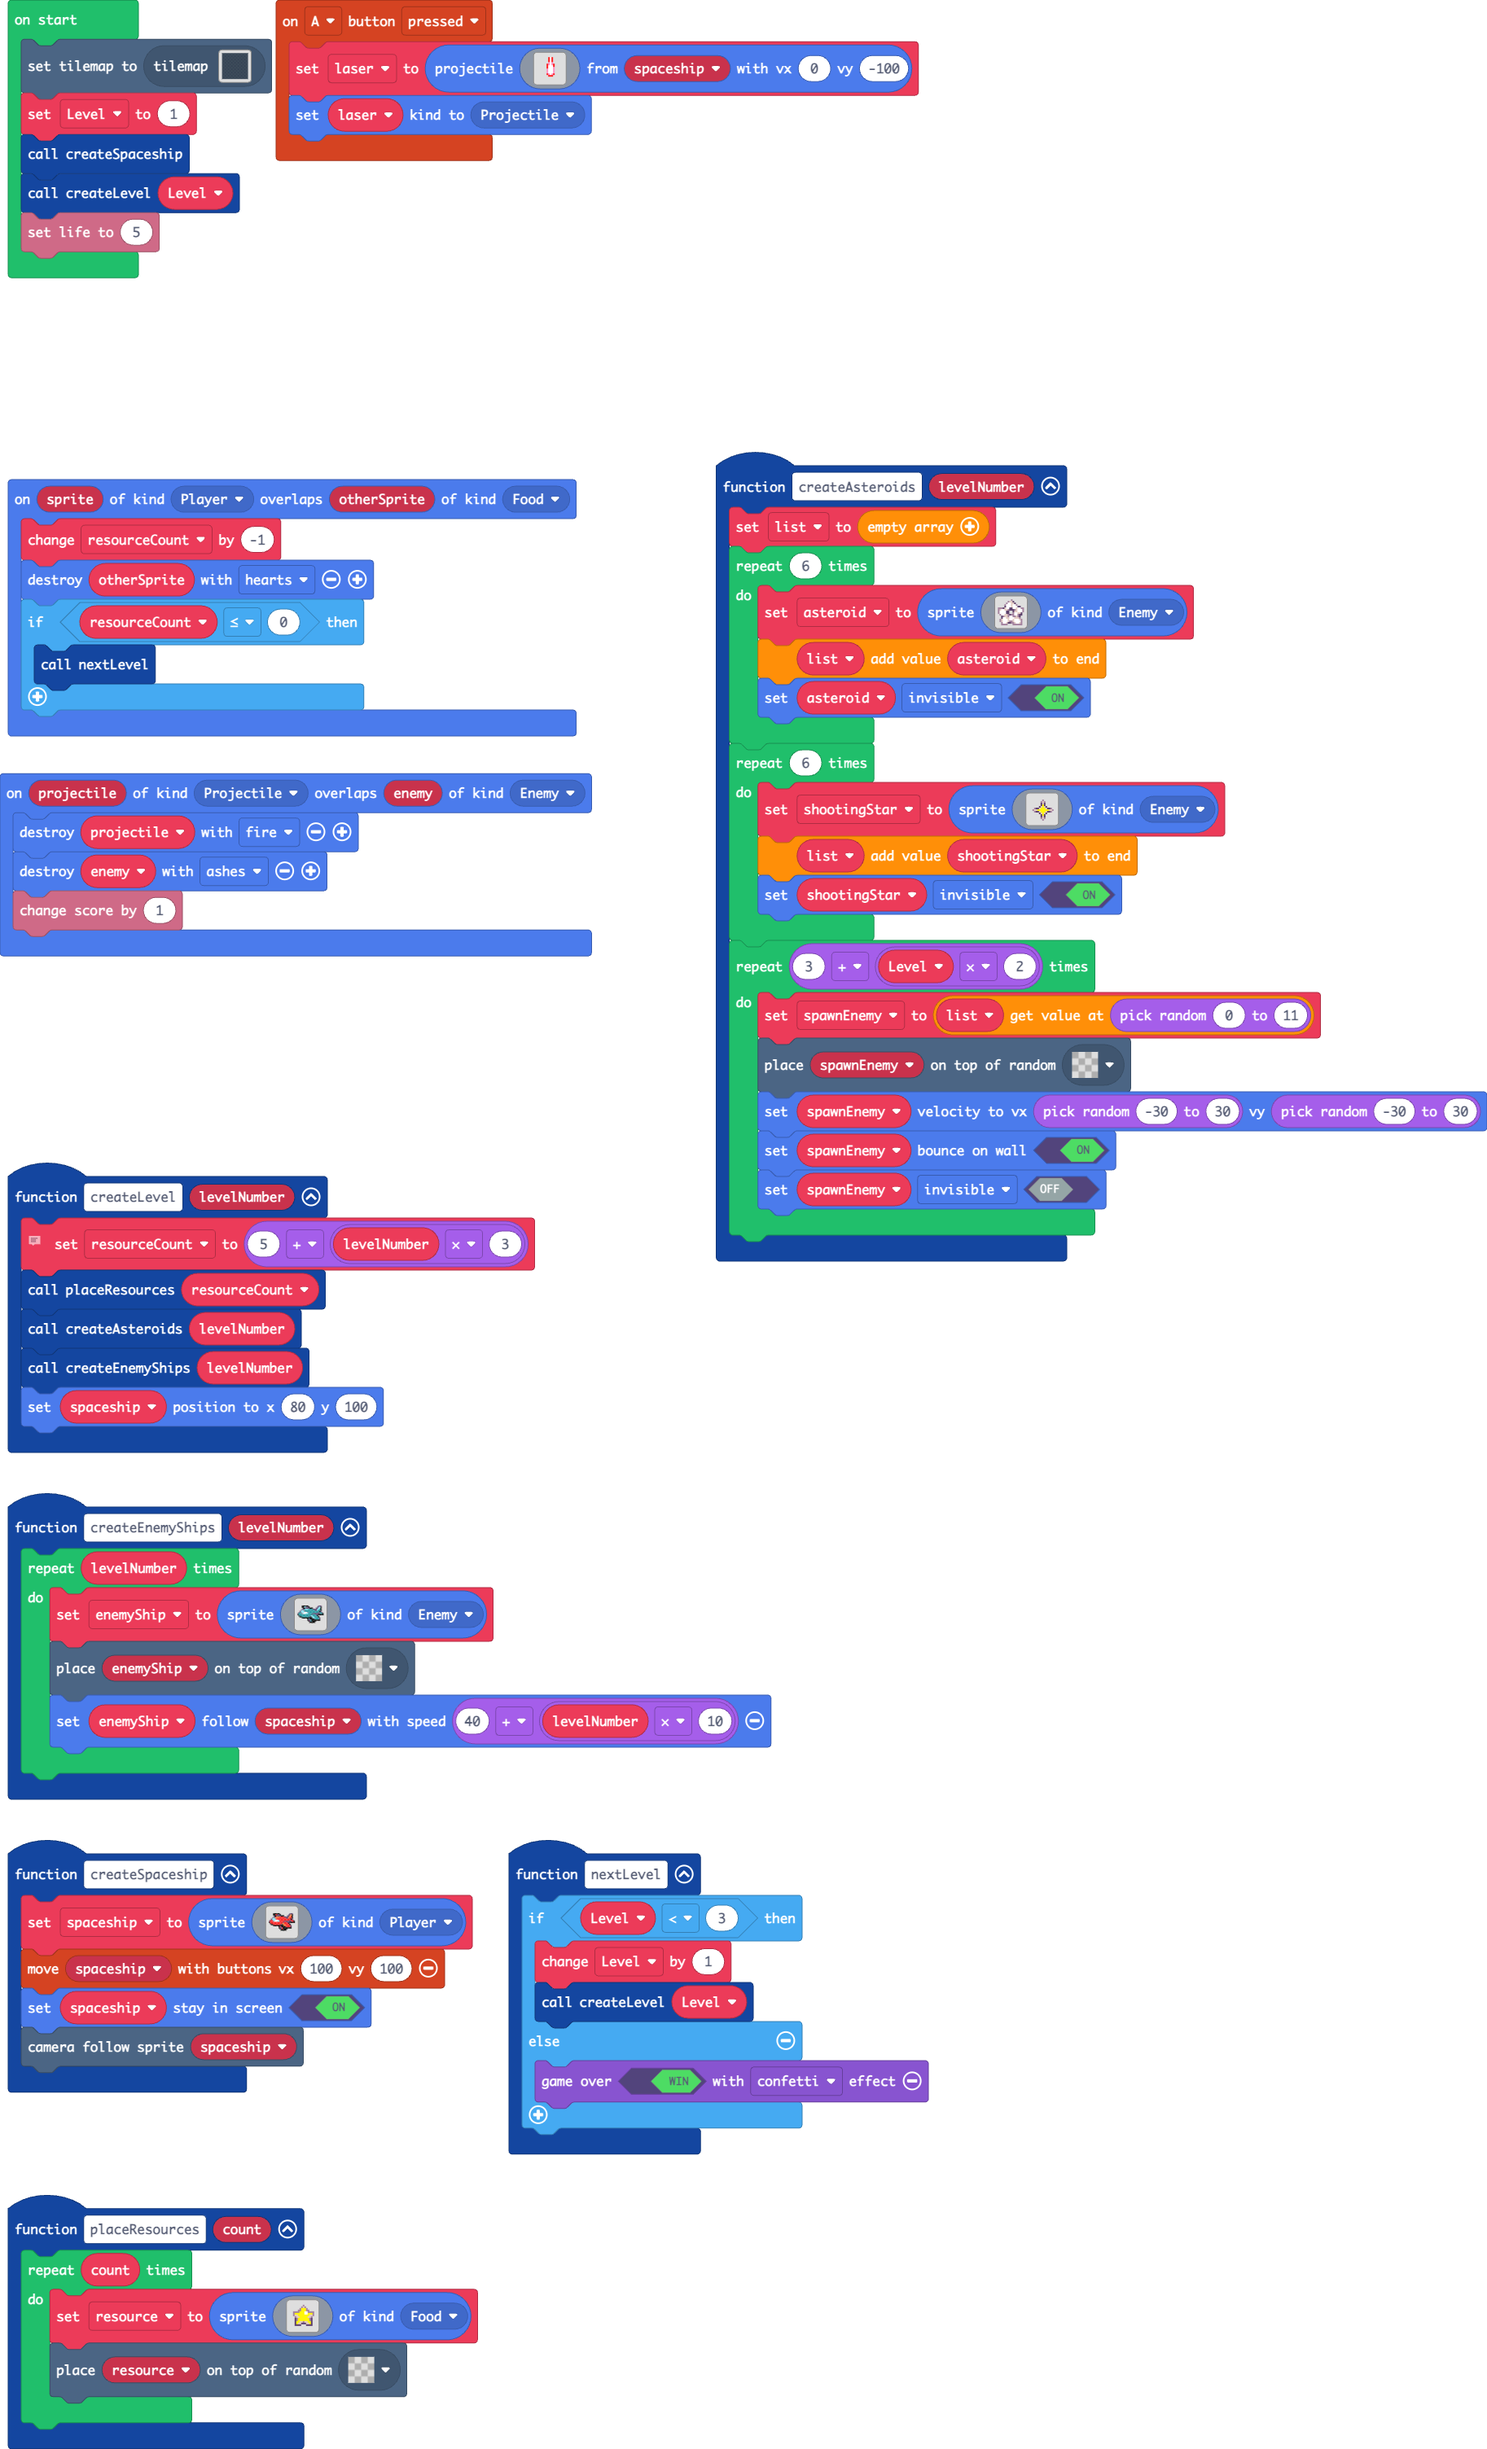
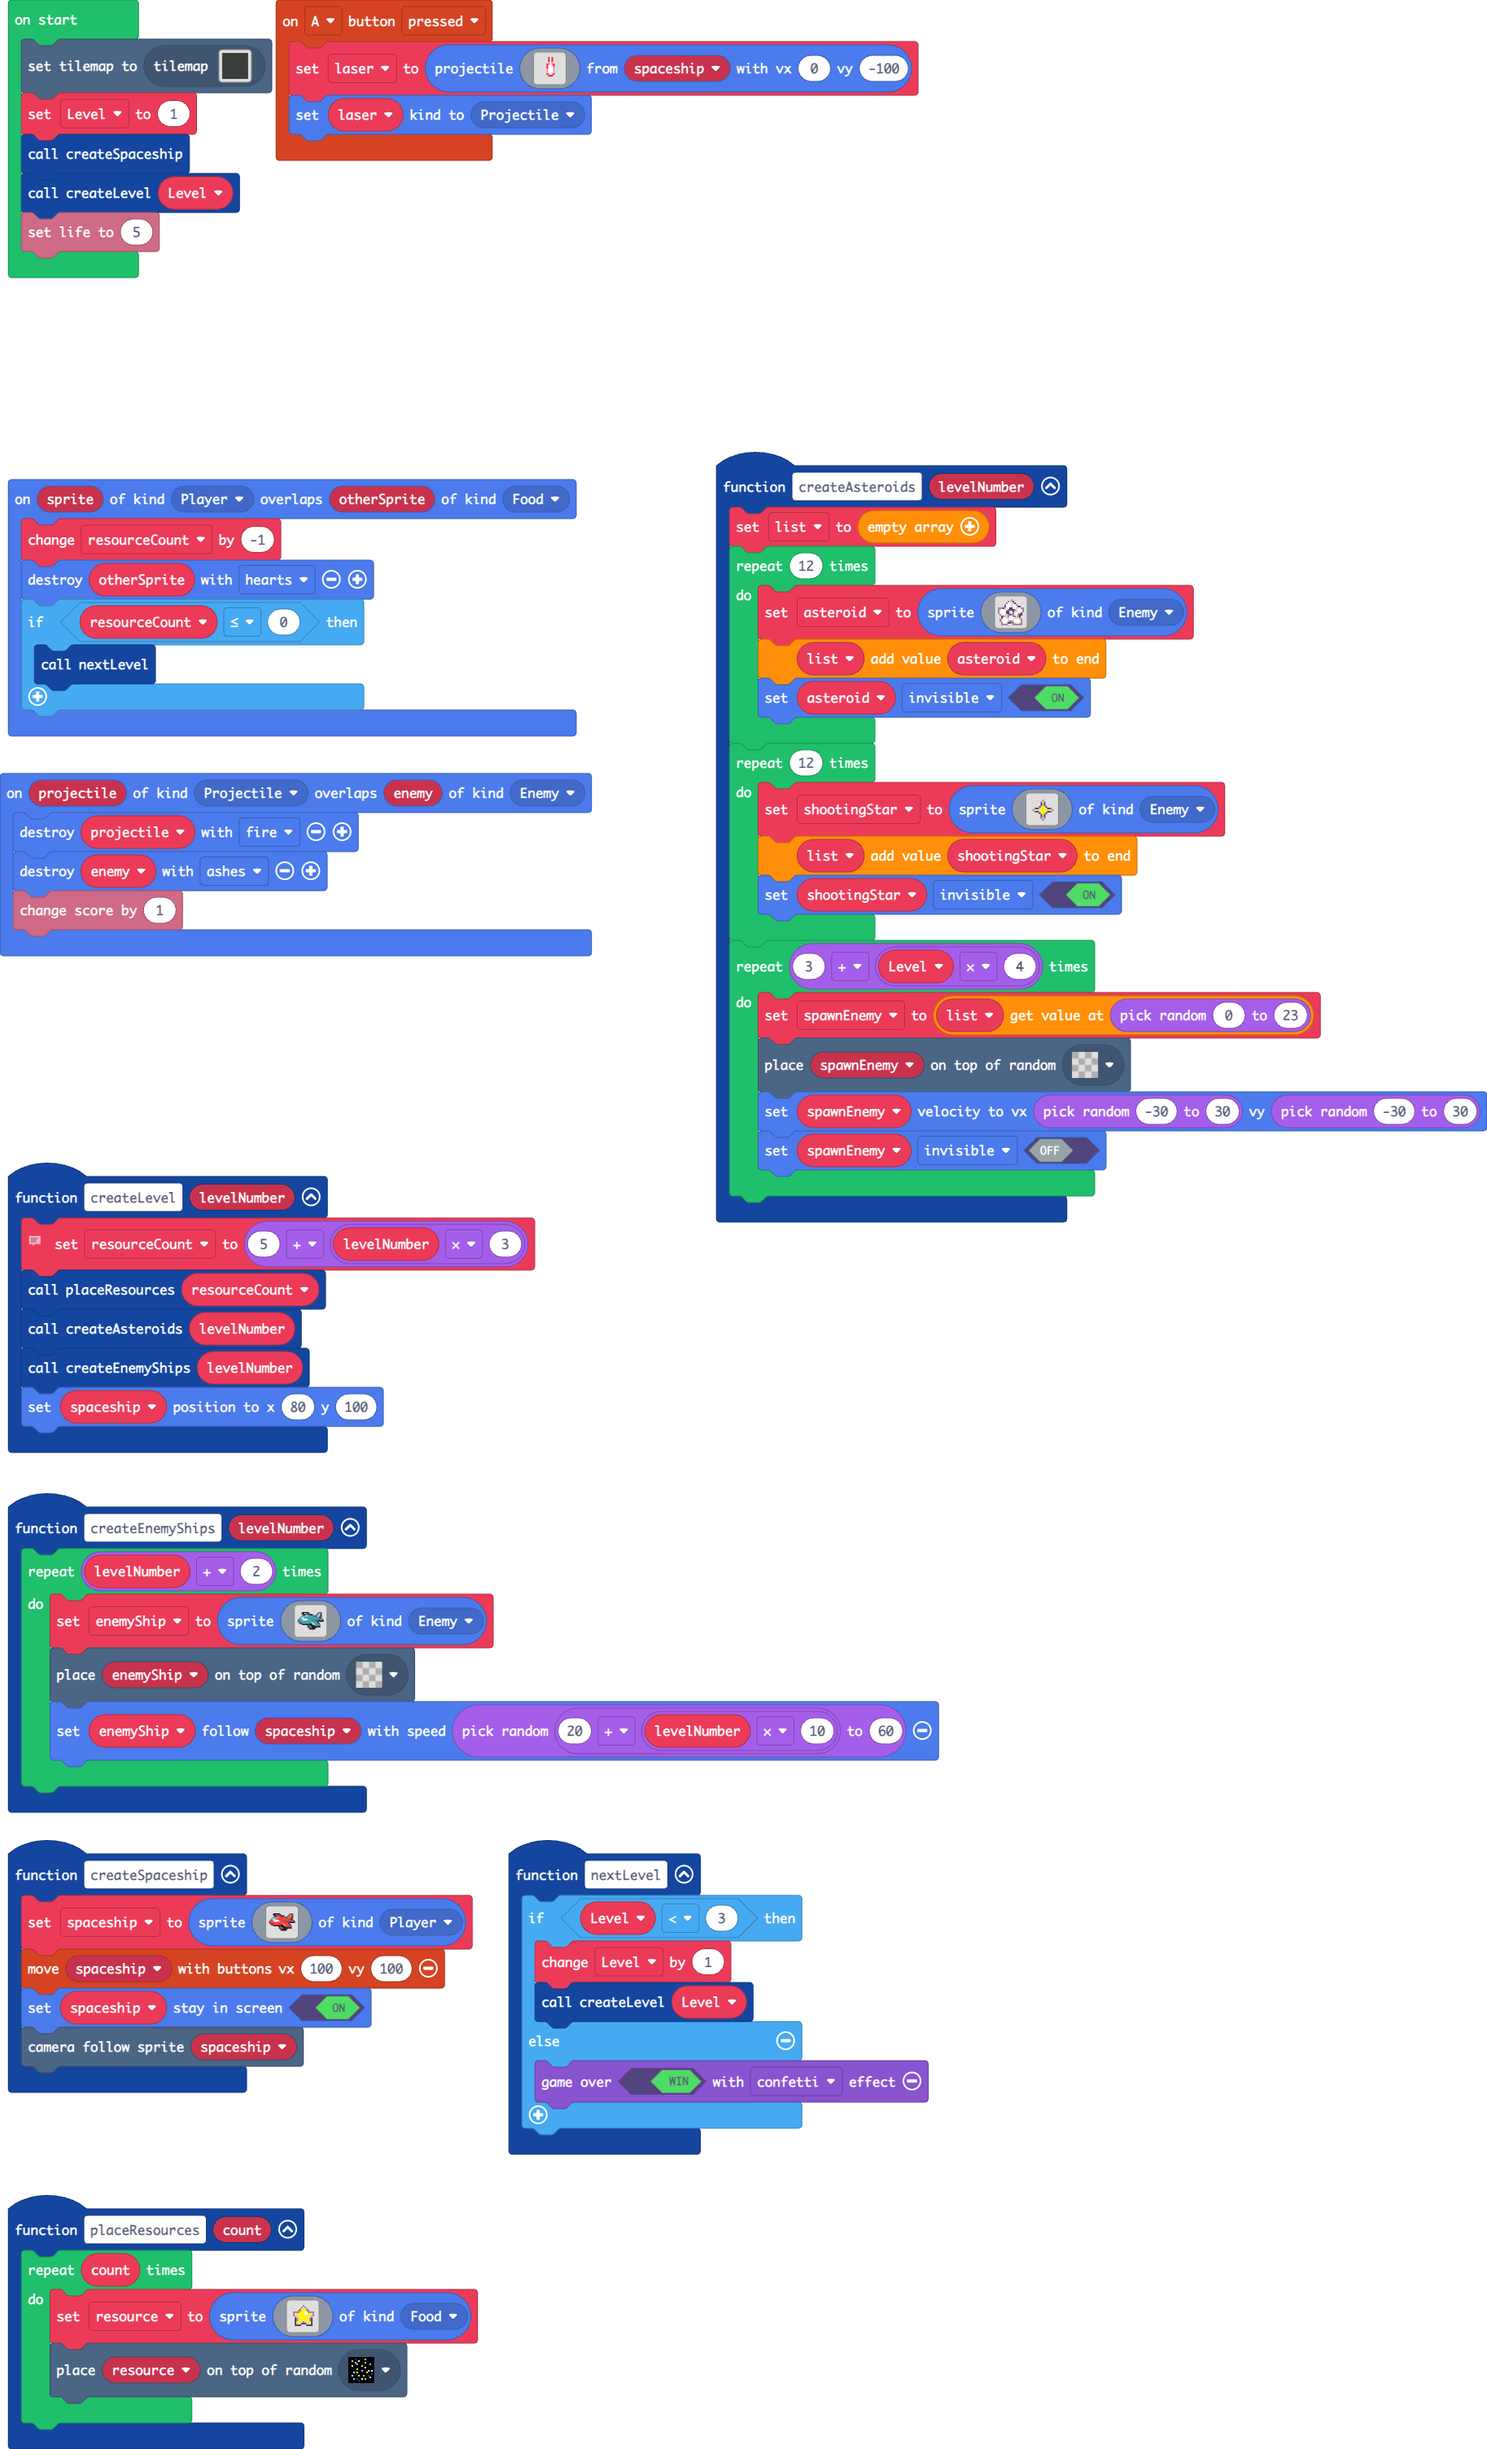
Update main.blocks, main.ts

diff --git a/main.ts b/main.ts
@@ -1,6 +1,6 @@
 function createAsteroids (levelNumber: number) {
     list = []
-    for (let index = 0; index < 6; index++) {
+    for (let index = 0; index < 12; index++) {
         asteroid = sprites.create(img`
             . . . . . . . . b . . . . . . . 
             . . . . . . b d d c . . . . . . 
@@ -22,7 +22,7 @@ function createAsteroids (levelNumber: number) {
         list.push(asteroid)
         asteroid.setFlag(SpriteFlag.Invisible, true)
     }
-    for (let index = 0; index < 6; index++) {
+    for (let index = 0; index < 12; index++) {
         shootingStar = sprites.create(img`
             . . . . . . . . . . . . . . . . 
             . . . . . . . . . . . . . . . . 
@@ -44,11 +44,10 @@ function createAsteroids (levelNumber: number) {
         list.push(shootingStar)
         shootingStar.setFlag(SpriteFlag.Invisible, true)
     }
-    for (let index = 0; index < 3 + Level * 2; index++) {
-        spawnEnemy = list[randint(0, 11)]
+    for (let index = 0; index < 3 + Level * 4; index++) {
+        spawnEnemy = list[randint(0, 23)]
         tiles.placeOnRandomTile(spawnEnemy, assets.tile`transparency16`)
         spawnEnemy.setVelocity(randint(-30, 30), randint(-30, 30))
-        spawnEnemy.setBounceOnWall(true)
         spawnEnemy.setFlag(SpriteFlag.Invisible, false)
     }
 }
@@ -106,7 +105,7 @@ function placeResources (count: number) {
             . . . . . . . . . . . . . . . . 
             . . . . . . . . . . . . . . . . 
             `, SpriteKind.Food)
-        tiles.placeOnRandomTile(resource, assets.tile`transparency16`)
+        tiles.placeOnRandomTile(resource, assets.tile`myTile`)
     }
 }
 function nextLevel () {
@@ -118,7 +117,7 @@ function nextLevel () {
     }
 }
 function createEnemyShips (levelNumber: number) {
-    for (let index = 0; index < levelNumber; index++) {
+    for (let index = 0; index < levelNumber + 2; index++) {
         enemyShip = sprites.create(img`
             ....ffffff.........ccc..
             ....ff99ccf.......cc9f..
@@ -138,7 +137,7 @@ function createEnemyShips (levelNumber: number) {
             ...........fffff........
             `, SpriteKind.Enemy)
         tiles.placeOnRandomTile(enemyShip, assets.tile`transparency16`)
-        enemyShip.follow(spaceship, 40 + levelNumber * 10)
+        enemyShip.follow(spaceship, randint(20 + levelNumber * 10, 60))
     }
 }
 sprites.onOverlap(SpriteKind.Player, SpriteKind.Food, function (sprite, otherSprite) {
